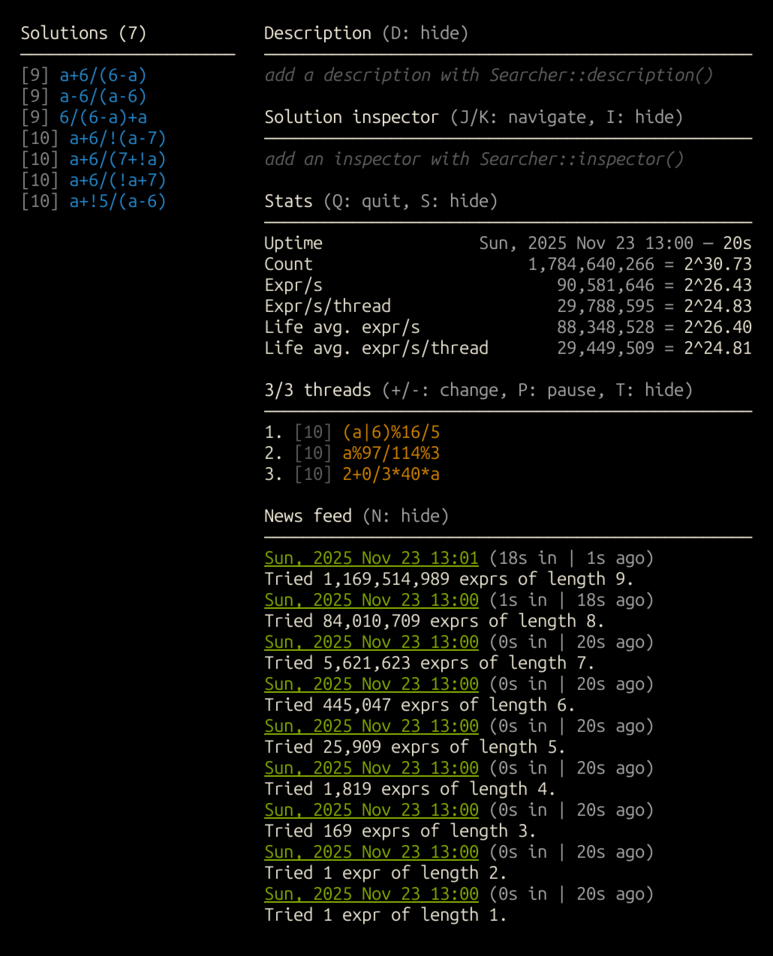
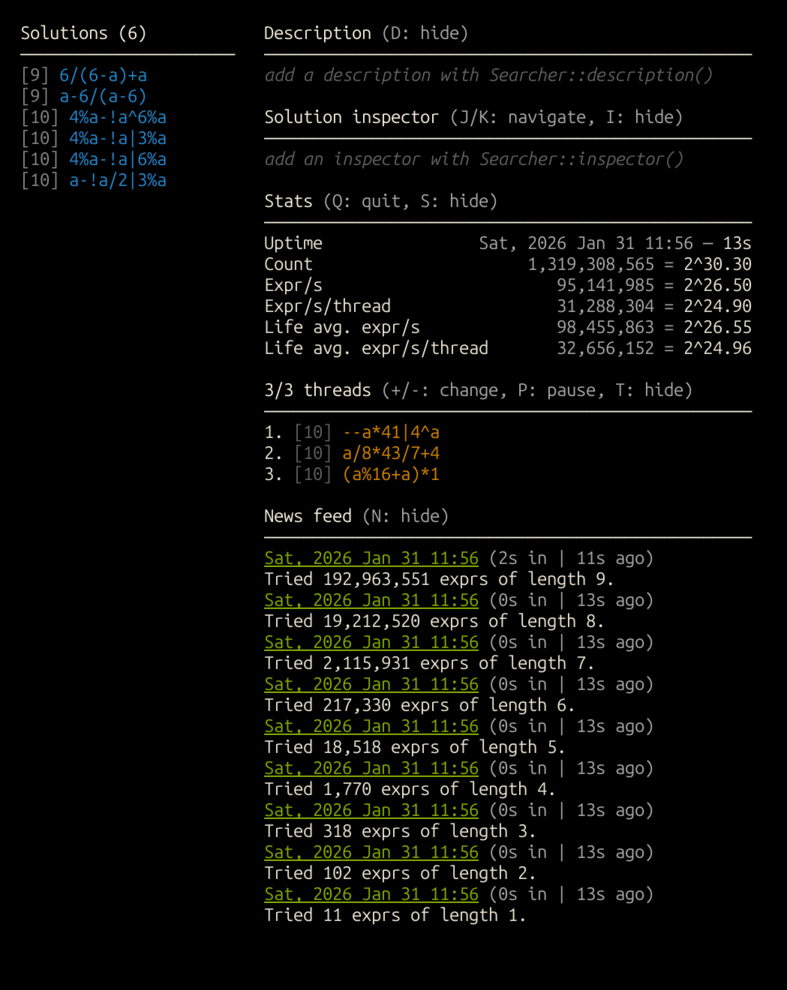
Re-did all the screenshots.

Changed region(s): [[0.3105, 0.0303, 0.9935, 0.9707], [0.031, 0.0, 0.3105, 0.2123]]

diff --git a/src/lib.rs b/src/lib.rs
@@ -197,6 +197,12 @@
 //! }
 //! ```
 //!
+//! And here is what it looks like in the UI:
+//!
+//! ![Another screenshot of Clubs. The fourth solution in the solutions list is highlighted, and the Solution Inspector panel shows us that its output for an input of 6 is Some(11)][inspector]
+//!
+#![doc = embed_doc_image::embed_image!("inspector", "assets/inspector_medium.png")]
+//!
 //! # Penalizers
 //!
 //! By default, Clubs will sort the expressions it discovers in order of length, shortest first, because that's what's usually appropriate for code golf. However, sometimes the length of the expression itself isn't the only thing you care about. The overall program that you're using the expression in may have parts that grow or shrink based on the expression's properties. In that case, the shortest working expression may not be the best one.
@@ -230,9 +236,9 @@
 //!
 //! After running this program for a few minutes, the solutions list will look like this:
 //!
-//! ![Another screenshot of Clubs. This time, there are many solutions listed, and they are no longer ordered by length. Instead, the top solutions in the list are slightly longer than the ones below, but have lower scores because they use the input variable only once.][demo_penalizer]
+//! ![Another screenshot of Clubs. This time, there are many solutions listed, and they are no longer ordered by length. Instead, the top solutions in the list are slightly longer than the ones below, but have lower scores because they use the input variable only once.][penalizer]
 //!
-#![doc = embed_doc_image::embed_image!("demo_penalizer", "assets/demo_penalizer_medium.png")]
+#![doc = embed_doc_image::embed_image!("penalizer", "assets/penalizer_medium.png")]
 //!
 //! The expressions listed in the Solutions panel are no longer ordered only by length; instead, slightly longer expressions have been surfaced to the top because they use the input variable only once and so go unpenalized by the penalizer, while slightly shorter expressions which use the input variable multiple times receive the penalty and have scores that are 7 more than their lengths. Note that in the Threads panel, which displays expressions which are currently being considered, the number to the left of each expression *is* simply its length, because Clubs does not call the penalizer on an expression unless it is accepted by the judge and so does not yet know what these expressions' scores would be.
 //!
